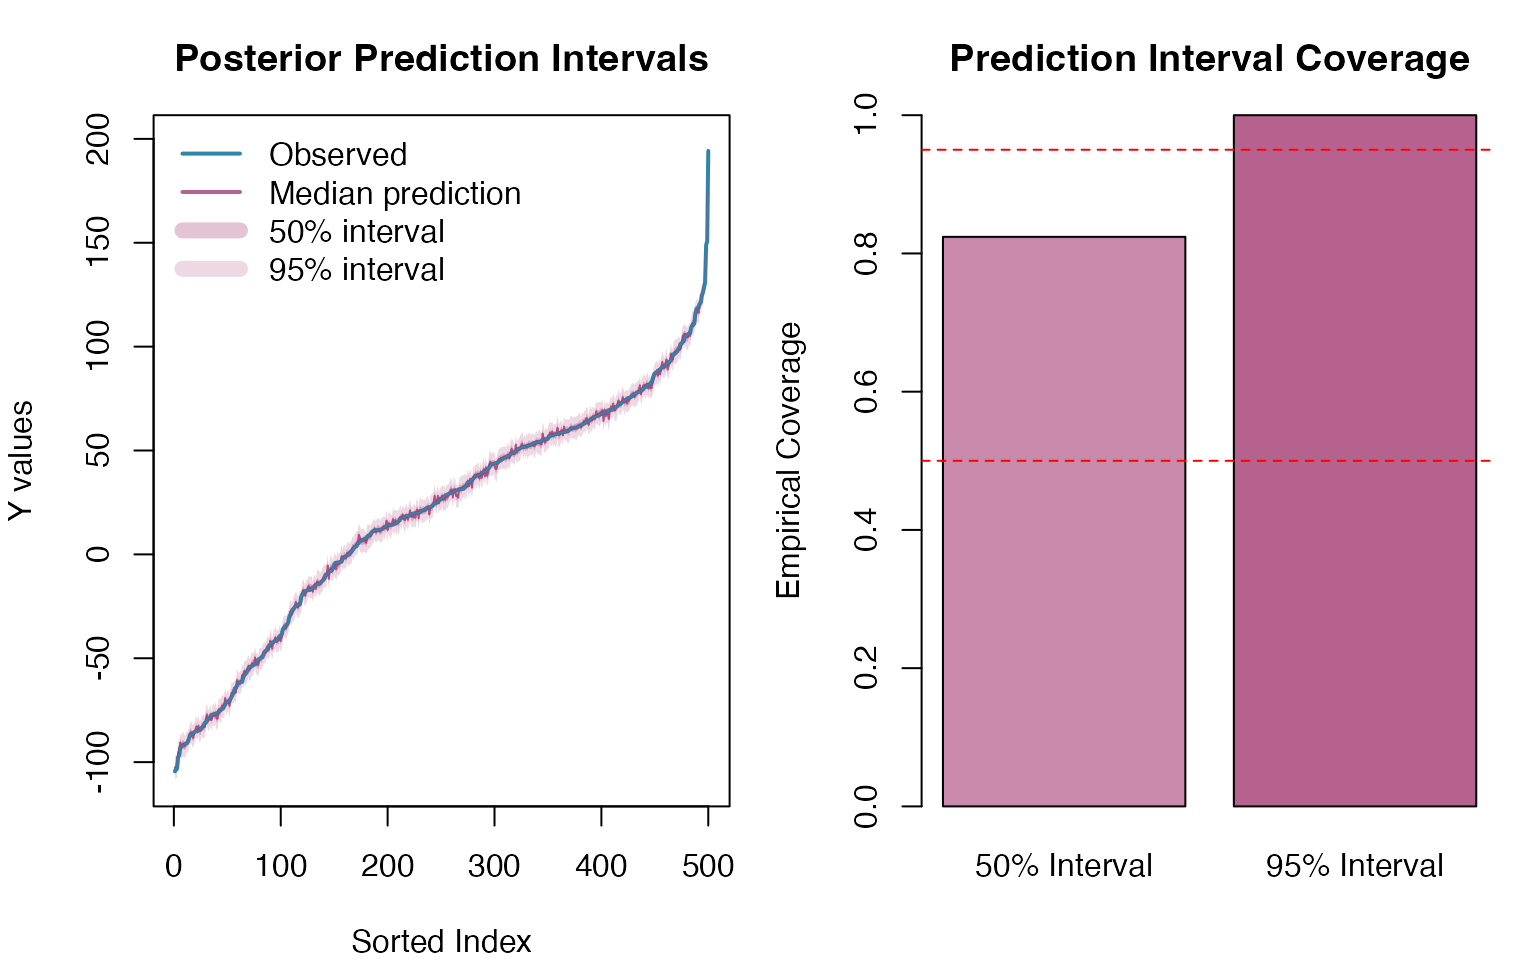
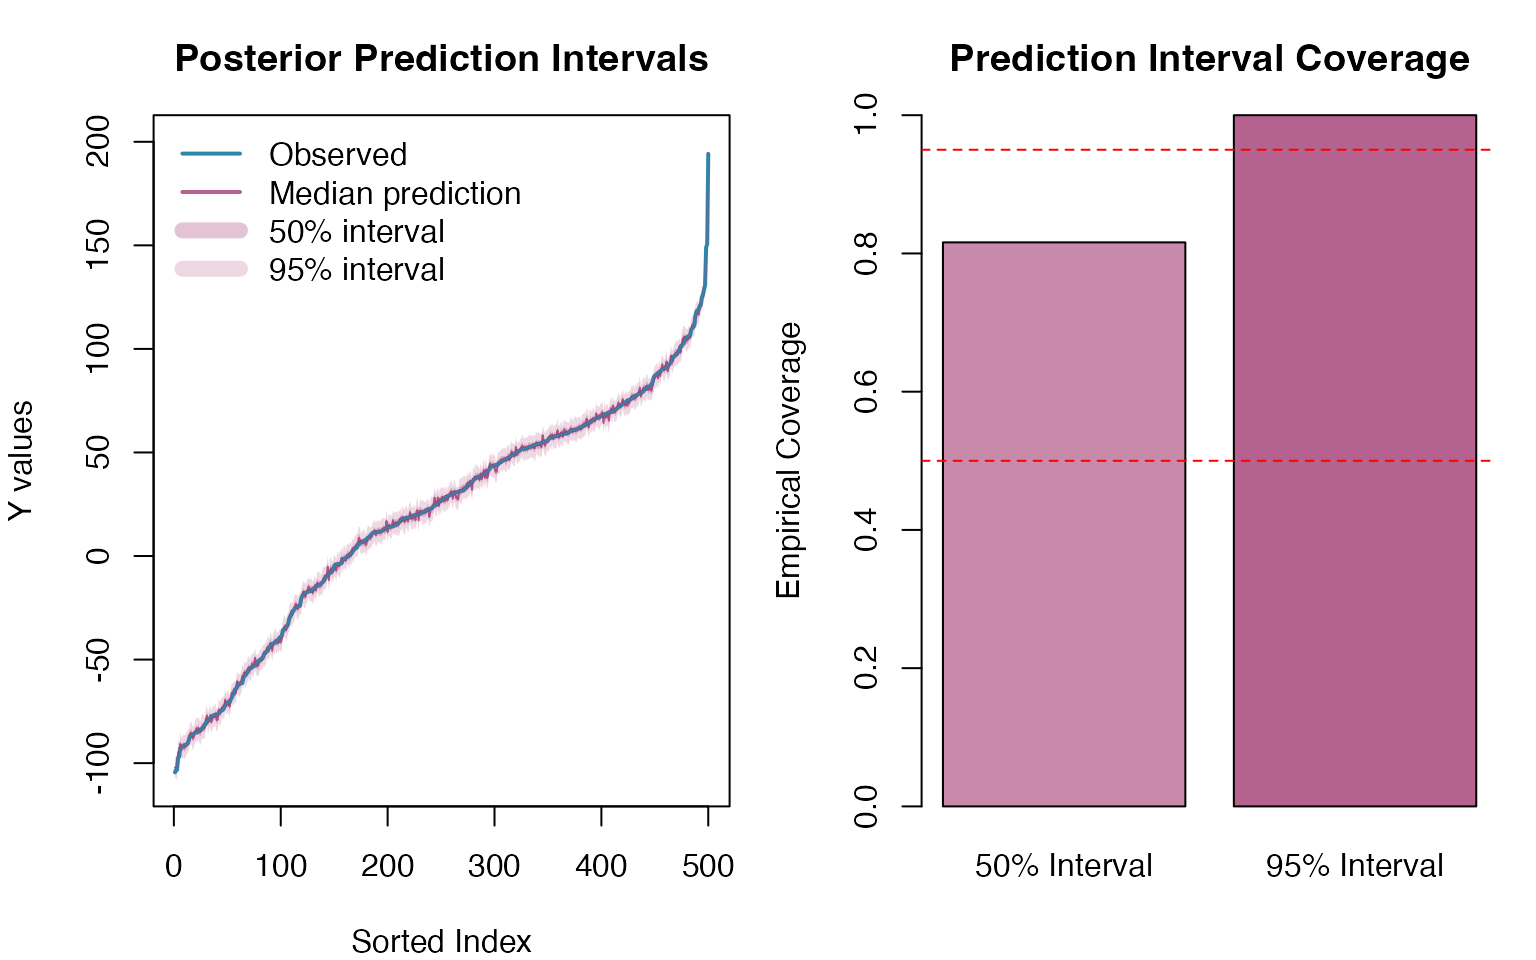
update rw docs

diff --git a/docs/articles/RW-model.html b/docs/articles/RW-model.html
@@ -1097,7 +1097,7 @@ values:</p>
 <span><span class="va">all_gap_indices</span> <span class="op">&lt;-</span> <span class="fu"><a href="https://rdrr.io/r/base/c.html" class="external-link">c</a></span><span class="op">(</span><span class="va">gap1_indices</span>, <span class="va">gap2_indices</span>, <span class="va">gap3_indices</span><span class="op">)</span></span>
 <span></span>
 <span><span class="va">Y_true_gaps</span> <span class="op">&lt;-</span> <span class="va">Y</span><span class="op">[</span><span class="va">all_gap_indices</span><span class="op">]</span></span>
-<span><span class="va">train_indices_interp</span> <span class="op">&lt;-</span> <span class="fu"><a href="https://rdrr.io/r/base/sets.html" class="external-link">setdiff</a></span><span class="op">(</span><span class="fl">1</span><span class="op">:</span><span class="va">n_obs</span>, <span class="va">all_gap_indices</span><span class="op">)</span></span>
+<span><span class="va">train_indices_interp</span> <span class="op">&lt;-</span> <span class="fu"><a href="https://generics.r-lib.org/reference/setops.html" class="external-link">setdiff</a></span><span class="op">(</span><span class="fl">1</span><span class="op">:</span><span class="va">n_obs</span>, <span class="va">all_gap_indices</span><span class="op">)</span></span>
 <span><span class="va">model_data_train_interp</span> <span class="op">&lt;-</span> <span class="va">model_data</span><span class="op">[</span><span class="va">train_indices_interp</span>, <span class="op">]</span></span>
 <span><span class="va">Y_train_vector</span> <span class="op">&lt;-</span> <span class="va">Y</span><span class="op">[</span><span class="va">train_indices_interp</span><span class="op">]</span></span>
 <span></span>
